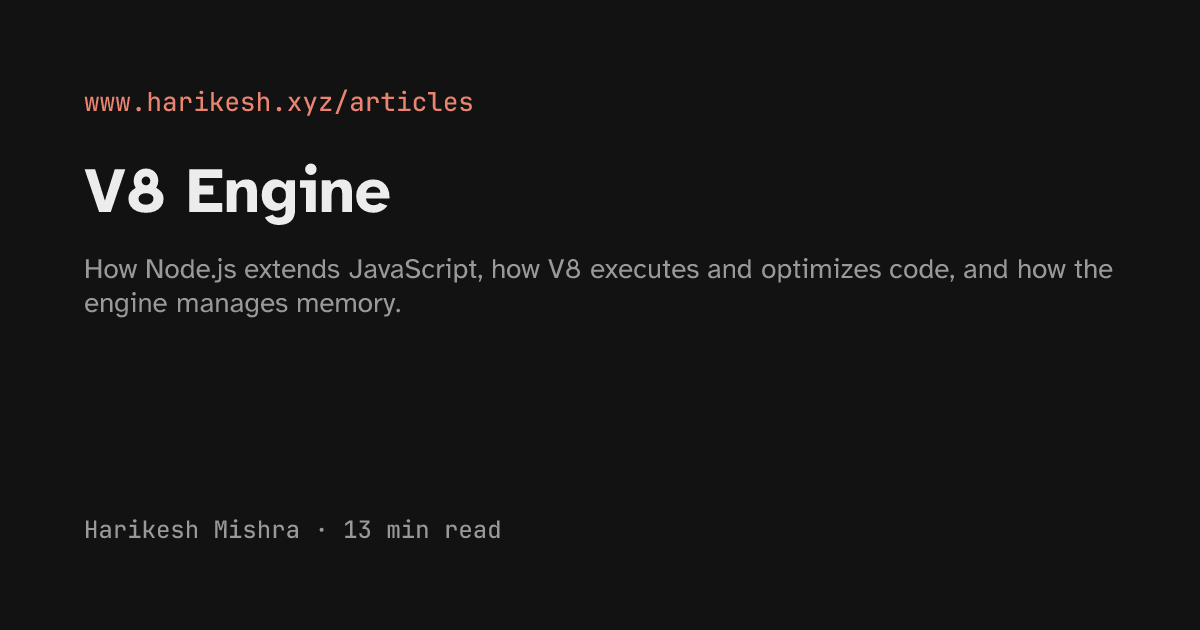
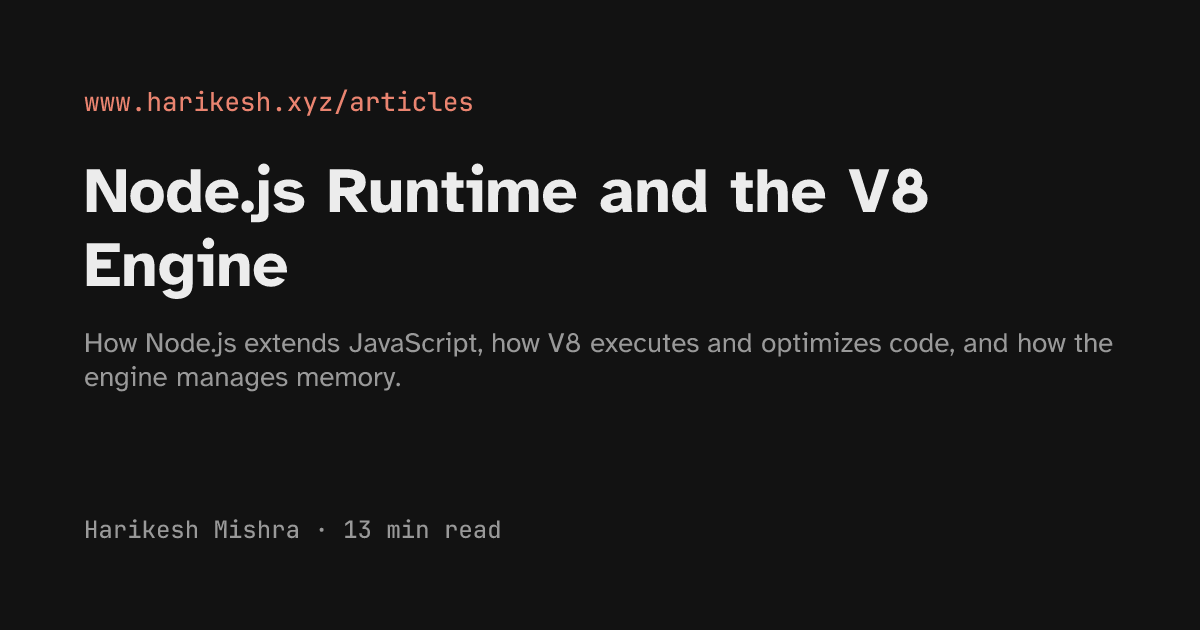
docs: rename V8 guide title

Changed region(s): [[0.0617, 0.2413, 0.925, 0.6333]]

diff --git a/src/content/guides/v8.md b/src/content/guides/v8.md
@@ -1,5 +1,5 @@
 ---
-title: "V8 Engine"
+title: "Node.js Runtime and the V8 Engine"
 description: "How Node.js extends JavaScript, how V8 executes and optimizes code, and how the engine manages memory."
 category: "JavaScript"
 topic: "execution-model"
@@ -8,7 +8,7 @@ date: "September 2026"
 publishedAt: "2026-09-03"
 ---
 
-# V8 Engine
+# Node.js Runtime and the V8 Engine
 
 Nowadays, there are various types of ecosystems available, whether for Python, Java, or Node.js.
 
